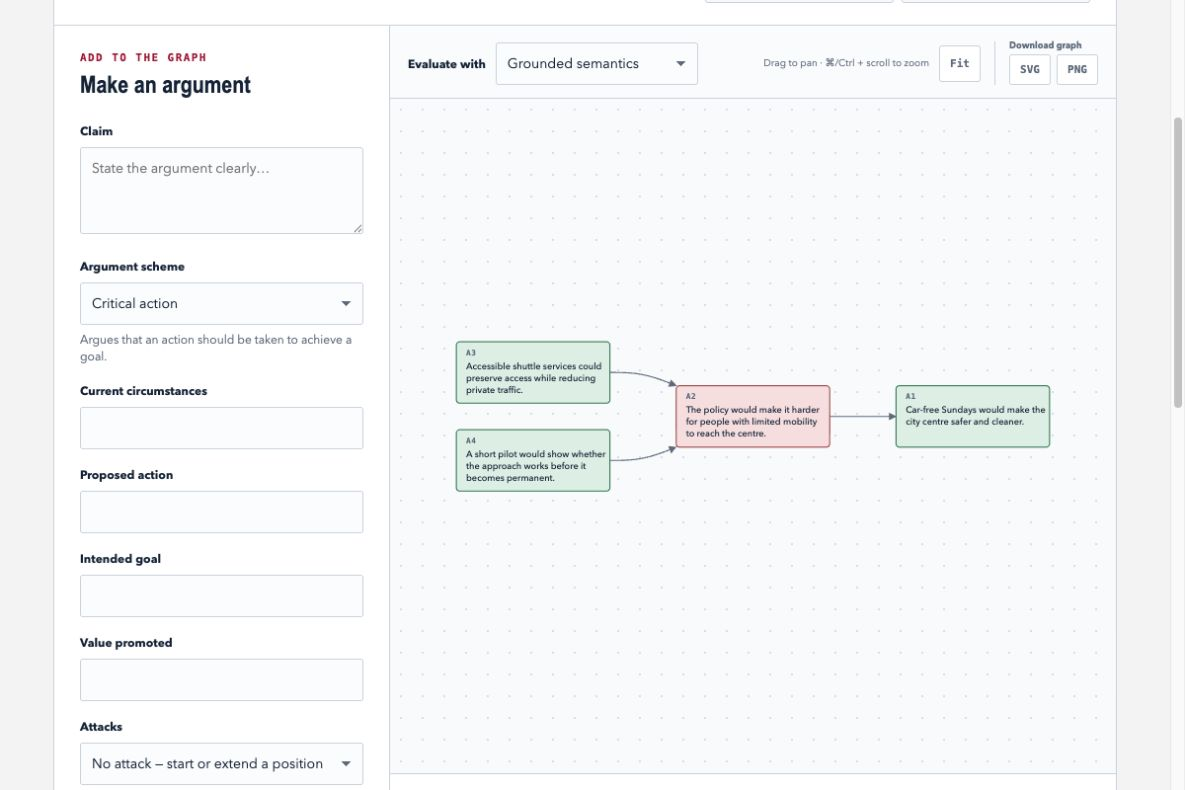
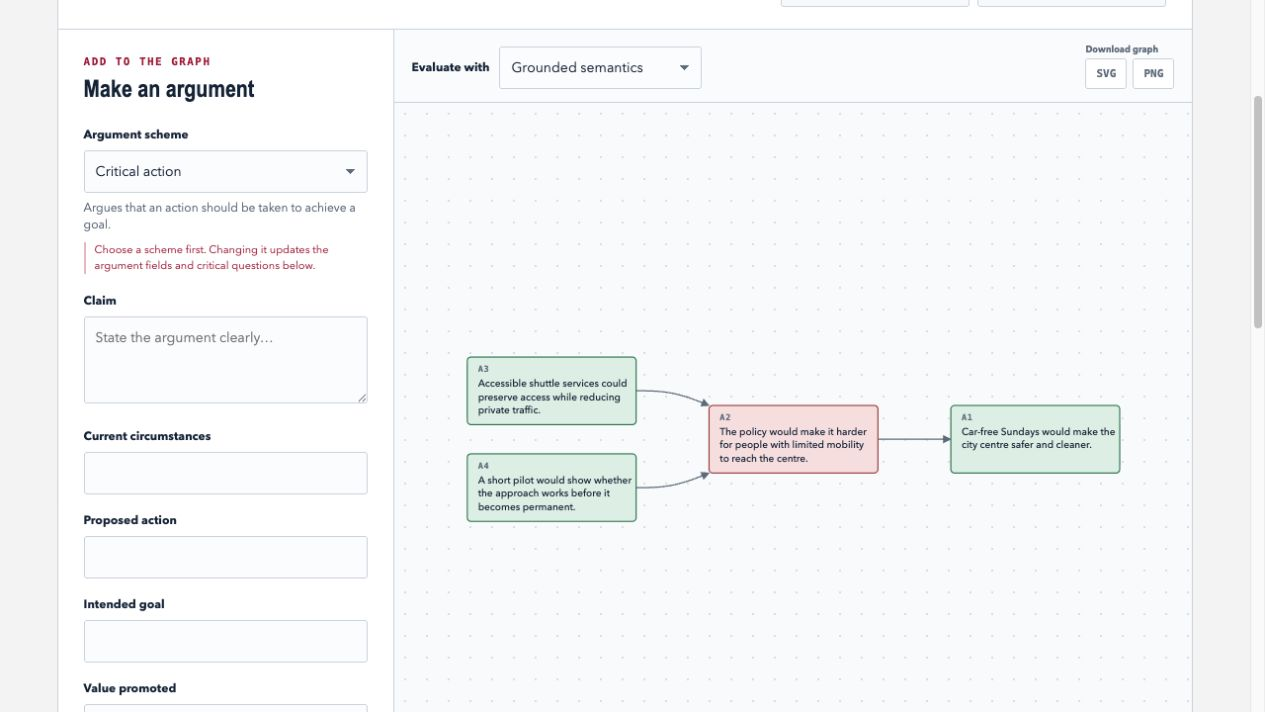
Refine argument workflow and references

diff --git a/index.html b/index.html
@@ -37,13 +37,18 @@
     <main id="top">
       <section class="workspace" id="workspace" aria-labelledby="workspace-title">
         <div class="project-context">
-          <p><a href="https://www.kcl.ac.uk/study/postgraduate-taught/courses/advanced-computing-msc">King's College London MSc project</a>, supervised by <a href="https://www.kcl.ac.uk/people/sanjay-modgil/">Dr Sanjay Modgil</a>.</p>
-          <p>Builds structured debates using <a href="#argumentation-schemes">argumentation schemes</a> and <a href="#dung-graphs">Dung-style argumentation graphs</a>.</p>
+          <p><a href="https://www.kcl.ac.uk/study/postgraduate-taught/courses/advanced-computing-msc">King's College London MSc project</a>, supervised by <a href="https://www.kcl.ac.uk/people/sanjay-modgil/">Dr Sanjay Modgil</a>. Builds structured debates using <a href="#argumentation-schemes">argumentation schemes</a> and <a href="#dung-graphs">Dung-style argumentation graphs</a>.</p>
         </div>
         <div class="debate-console">
           <div class="workspace-header">
             <div>
-              <p class="section-label">Current debate</p>
+              <div class="debate-title-meta">
+                <p class="section-label">Current debate</p>
+                <span class="editable-title-hint" aria-hidden="true">
+                  <svg viewBox="0 0 24 24"><path d="M4 20h4l11-11-4-4L4 16v4Zm12.4-16.4 4 4 1.1-1.1a1.4 1.4 0 0 0 0-2l-2-2a1.4 1.4 0 0 0-2 0l-1.1 1.1Z"/></svg>
+                  Editable title
+                </span>
+              </div>
               <h2 id="workspace-title" contenteditable="true" spellcheck="true" aria-label="Debate title"></h2>
             </div>
             <div class="file-actions" aria-label="Debate file controls">
@@ -62,12 +67,13 @@
               <h3 id="composer-title">Make an argument</h3>
             </div>
             <form id="argument-form">
-              <label for="claim">Claim</label>
-              <textarea id="claim" name="claim" rows="3" required placeholder="State the argument clearly…"></textarea>
-
               <label for="scheme">Argument scheme</label>
               <select id="scheme" name="scheme" required></select>
               <p class="field-help" id="scheme-help"></p>
+              <p class="structure-note">Choose a scheme first. Changing it updates the argument fields and critical questions below.</p>
+
+              <label for="claim">Claim</label>
+              <textarea id="claim" name="claim" rows="3" required placeholder="State the argument clearly…"></textarea>
 
               <div id="scheme-fields"></div>
 
@@ -103,10 +109,6 @@
                 <select id="extension"></select>
               </div>
               <div class="graph-actions">
-                <div class="graph-view-controls">
-                  <span class="graph-hint">Drag to pan · ⌘/Ctrl + scroll to zoom</span>
-                  <button class="icon-button" id="fit-graph" type="button" title="Fit graph" aria-label="Fit graph">Fit</button>
-                </div>
                 <div class="graph-export-controls" aria-label="Download graph">
                   <span>Download graph</span>
                   <button class="icon-button" id="export-svg" type="button" title="Download graph as SVG">SVG</button>
@@ -126,6 +128,11 @@
                 <span>Add the first claim to begin the graph.</span>
               </div>
               <div class="graph-busy" id="graph-busy" hidden>Evaluating framework…</div>
+              <div class="graph-view-controls" aria-label="Graph view controls">
+                <span class="graph-hint">Drag to pan · ⌘/Ctrl + scroll to zoom</span>
+                <span class="graph-control-divider" aria-hidden="true"></span>
+                <button class="icon-button" id="fit-graph" type="button" title="Fit graph" aria-label="Fit graph">Fit</button>
+              </div>
             </div>
 
             <div class="results" id="results" aria-live="polite">
@@ -155,12 +162,14 @@
           <article id="argumentation-schemes">
             <h3>What is an argumentation scheme?</h3>
             <p>An argumentation scheme is a recurring pattern of everyday reasoning. It sets out the premises that normally support a conclusion—for example, relying on expert opinion, drawing an analogy or predicting the consequences of an action. Unlike a deductive proof, the conclusion is open to challenge when new information appears.</p>
-            <p>Each scheme therefore comes with critical questions that expose its weaker assumptions: is the expert credible, are the two cases genuinely similar, or could the proposed action produce different consequences? Argupedia uses the selected scheme to structure a contribution, then offers relevant questions when another argument challenges it. <a href="https://philosophicaldisquisitions.blogspot.com/2010/03/argumentation-schemes-part-1.html">Argumentation Schemes (Part 1), John Danaher</a>.</p>
+            <p>Each scheme therefore comes with critical questions that expose its weaker assumptions: is the expert credible, are the two cases genuinely similar, or could the proposed action produce different consequences? Argupedia uses the selected scheme to structure a contribution, then offers relevant questions when another argument challenges it.<sup class="footnote-marker"><a href="#scheme-source" aria-label="Source 1">1</a></sup></p>
+            <p class="source-note" id="scheme-source"><sup>1</sup><span>Source:</span> <a href="https://philosophicaldisquisitions.blogspot.com/2010/03/argumentation-schemes-part-1.html">John Danaher, “Argumentation Schemes (Part 1)”</a></p>
           </article>
           <article id="dung-graphs">
             <h3>What is a Dung-style argumentation graph?</h3>
             <p>A Dung-style argumentation framework strips a debate back to two elements: a set of arguments and the attack relationships between them. In the graph, each argument becomes a node and each attack becomes a directed arrow. This makes the structure of a disagreement visible without assuming that one claim is true simply because it was entered first or stated most forcefully.</p>
-            <p>Formal semantics then evaluate how arguments defend and defeat one another. Argupedia can apply grounded, complete or preferred semantics and label arguments as accepted, rejected or undecided. These labels describe defensible positions within the graph; they do not provide an objective verdict on which person has “won” the debate. <a href="https://en.wikipedia.org/wiki/Argumentation_framework">Introduction to argumentation frameworks</a>.</p>
+            <p>Formal semantics then evaluate how arguments defend and defeat one another. Argupedia can apply grounded, complete or preferred semantics and label arguments as accepted, rejected or undecided. These labels describe defensible positions within the graph; they do not provide an objective verdict on which person has “won” the debate.<sup class="footnote-marker"><a href="#graph-source" aria-label="Source 2">2</a></sup></p>
+            <p class="source-note" id="graph-source"><sup>2</sup><span>Source:</span> <a href="https://en.wikipedia.org/wiki/Argumentation_framework">“Argumentation framework” overview</a></p>
           </article>
         </section>
       </section>

diff --git a/src/styles.css b/src/styles.css
@@ -53,13 +53,16 @@ a:hover { color: var(--red); }
 .workspace { padding: 28px clamp(18px, 4.5vw, 70px) 48px; max-width: 1680px; margin: auto; }
 .project-context { margin: 0 0 32px; padding: 0 0 17px; color: var(--muted); border-bottom: 1px solid var(--line); font-size: 13px; }
 .project-context p { margin: 0; }
-.project-context p + p { margin-top: 7px; }
 .project-context a { font-weight: 600; }
 .debate-console { background: var(--white); border: 1px solid var(--line); border-radius: 5px; overflow: hidden; }
 .workspace-header { display: flex; align-items: center; justify-content: space-between; gap: 32px; padding: 24px 26px 22px; border-bottom: 1px solid var(--line); background: var(--white); }
 .workspace-header .section-label { margin-bottom: 10px; }
-#workspace-title { min-width: 260px; margin: 0; font: 750 clamp(27px, 3vw, 42px)/1.12 var(--display); letter-spacing: -.025em; border-bottom: 1px dashed transparent; }
-#workspace-title:hover, #workspace-title:focus { border-bottom-color: var(--line); }
+.debate-title-meta { display: flex; align-items: center; gap: 10px; margin-bottom: 10px; }
+.debate-title-meta .section-label { margin: 0; }
+.editable-title-hint { display: inline-flex; align-items: center; gap: 4px; color: var(--muted); font-size: 10px; font-weight: 600; }
+.editable-title-hint svg { width: 11px; height: 11px; fill: currentColor; }
+#workspace-title { min-width: 260px; margin: 0; padding-bottom: 3px; font: 750 clamp(27px, 3vw, 42px)/1.12 var(--display); letter-spacing: -.025em; border-bottom: 1px dashed #b7c0cc; cursor: text; }
+#workspace-title:hover, #workspace-title:focus { border-bottom-color: var(--red); }
 .file-actions { display: grid; grid-template-columns: repeat(2, minmax(155px, 1fr)); gap: 8px; width: min(100%, 390px); margin-left: auto; }
 .file-actions .button { width: 100%; }
 .workspace-grid { display: grid; grid-template-columns: minmax(265px, 340px) minmax(0, 1fr); gap: 0; align-items: stretch; }
@@ -73,6 +76,7 @@ textarea, input:not([type="checkbox"]), select { width: 100%; color: var(--ink);
 textarea { resize: vertical; min-height: 88px; }
 select { appearance: none; background-image: linear-gradient(45deg,transparent 50%,var(--muted) 50%),linear-gradient(135deg,var(--muted) 50%,transparent 50%); background-position: calc(100% - 16px) 50%,calc(100% - 11px) 50%; background-size: 5px 5px; background-repeat: no-repeat; padding-right: 28px; }
 .field-help { margin: 7px 0 15px; color: var(--muted); font-size: 12px; line-height: 1.45; }
+.structure-note { margin: -7px 0 18px; padding-left: 9px; color: var(--red-dark); border-left: 2px solid #e7b7c0; font-size: 11px; line-height: 1.45; }
 .check-row { display: flex; align-items: flex-start; gap: 9px; font-weight: 500; line-height: 1.35; cursor: pointer; }
 .check-row input { margin-top: 2px; accent-color: var(--red); }
 
@@ -83,9 +87,10 @@ select { appearance: none; background-image: linear-gradient(45deg,transparent 5
 .semantics-control label { margin: 0; white-space: nowrap; }
 .semantics-control select { width: 205px; }
 .extension-control { width: 170px; }
-.graph-actions { display: flex; align-items: center; gap: 14px; margin-left: auto; }
-.graph-view-controls { display: flex; align-items: center; gap: 6px; }
-.graph-export-controls { display: grid; grid-template-columns: repeat(2, 42px); gap: 4px 6px; padding-left: 14px; border-left: 1px solid var(--line); }
+.graph-actions { display: flex; align-items: center; margin-left: auto; }
+.graph-view-controls { position: absolute; right: 15px; bottom: 15px; z-index: 2; display: flex; align-items: center; gap: 9px; padding: 5px 6px 5px 10px; background: rgba(255,255,255,.94); border: 1px solid var(--line); border-radius: 3px; box-shadow: 0 2px 8px rgba(21,34,56,.07); }
+.graph-control-divider { align-self: stretch; width: 1px; background: var(--line); }
+.graph-export-controls { display: grid; grid-template-columns: repeat(2, 42px); gap: 4px 6px; }
 .graph-export-controls > span { grid-column: 1 / -1; color: var(--muted); font-size: 9px; font-weight: 650; line-height: 1; white-space: nowrap; }
 .graph-export-controls .icon-button { height: 31px; }
 .graph-hint { align-self: center; margin-right: 4px; color: var(--muted); font-size: 10px; white-space: nowrap; }
@@ -135,6 +140,11 @@ select { appearance: none; background-image: linear-gradient(45deg,transparent 5
 .concept-notes p { margin: 0; color: var(--muted); font-size: 13px; }
 .concept-notes p + p { margin-top: 9px; }
 .concept-notes a { font-weight: 600; }
+.footnote-marker { margin-left: 2px; font-size: .72em; vertical-align: super; }
+.footnote-marker a { text-decoration: none; }
+.concept-notes .source-note { display: flex; align-items: baseline; gap: 5px; margin-top: 14px; color: #707a89; font-size: 11px; }
+.source-note sup { color: var(--red-dark); font: 700 9px/1 var(--mono); }
+.source-note span { font-weight: 650; }
 
 .toast { position: fixed; left: 50%; bottom: 24px; z-index: 50; padding: 12px 17px; color: white; background: var(--ink); border-radius: 3px; font-size: 13px; transform: translate(-50%, 20px); opacity: 0; pointer-events: none; transition: .2s ease; }
 .toast.visible { transform: translate(-50%, 0); opacity: 1; }
@@ -164,8 +174,9 @@ select { appearance: none; background-image: linear-gradient(45deg,transparent 5
   .semantics-control select { width: auto; min-width: 0; flex: 1; }
   .extension-control { width: calc(35% - 8px); }
   .graph-actions { width: 100%; margin-left: 0; }
-  .graph-view-controls { margin-right: auto; }
+  .graph-actions { justify-content: flex-end; }
   .graph-hint { display: none; }
+  .graph-control-divider { display: none; }
   .graph-stage, #debate-graph { min-height: 420px; }
   .legend { gap: 10px; flex-wrap: wrap; }
   .argument-list li { grid-template-columns: 38px 1fr; }
